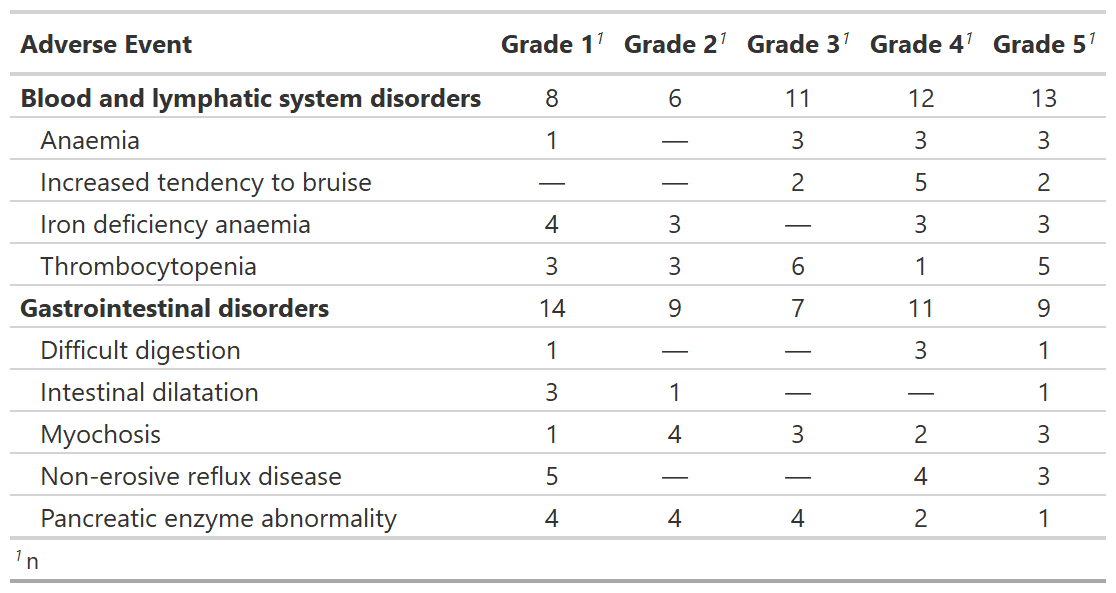
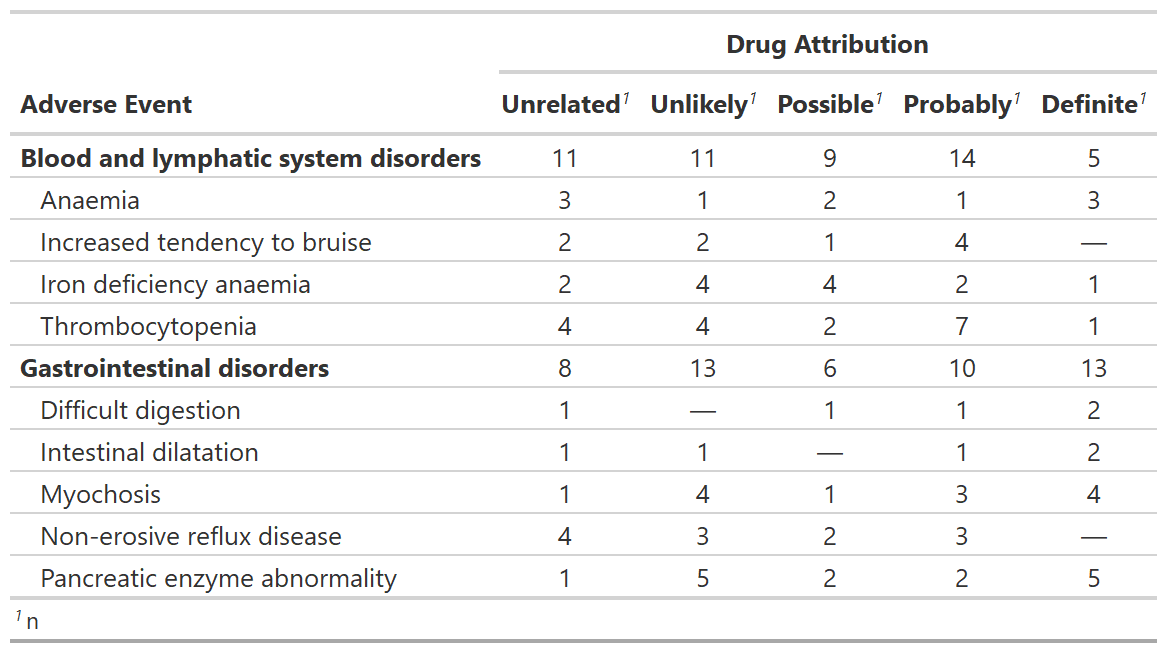
readme update with drug attribution example

Changed region(s): [[0.0, 0.0, 1.0, 1.0], [0.0, 0.0607, 0.1828, 0.0911]]

diff --git a/README.md b/README.md
@@ -61,13 +61,13 @@ tbl_ae_count <-
   tbl_ae_count(
     ae = adverse_event,
     soc = system_organ_class, 
-    by = grade, 
-    header = "**Grade {level}**"
+    by = drug_attribution
   ) %>%
+  modify_spanning_header(all_stat_cols() ~ "**Drug Attribution**") %>%
   bold_labels()
 ```
 
-<img src="man/figures/README-example-tbl_ae_count-1.png" width="65%" />
+<img src="man/figures/README-example-tbl_ae_count-1.png" width="70%" />
 
 Focus on rates of high grade complications with `tbl_ae_focus()`
 
